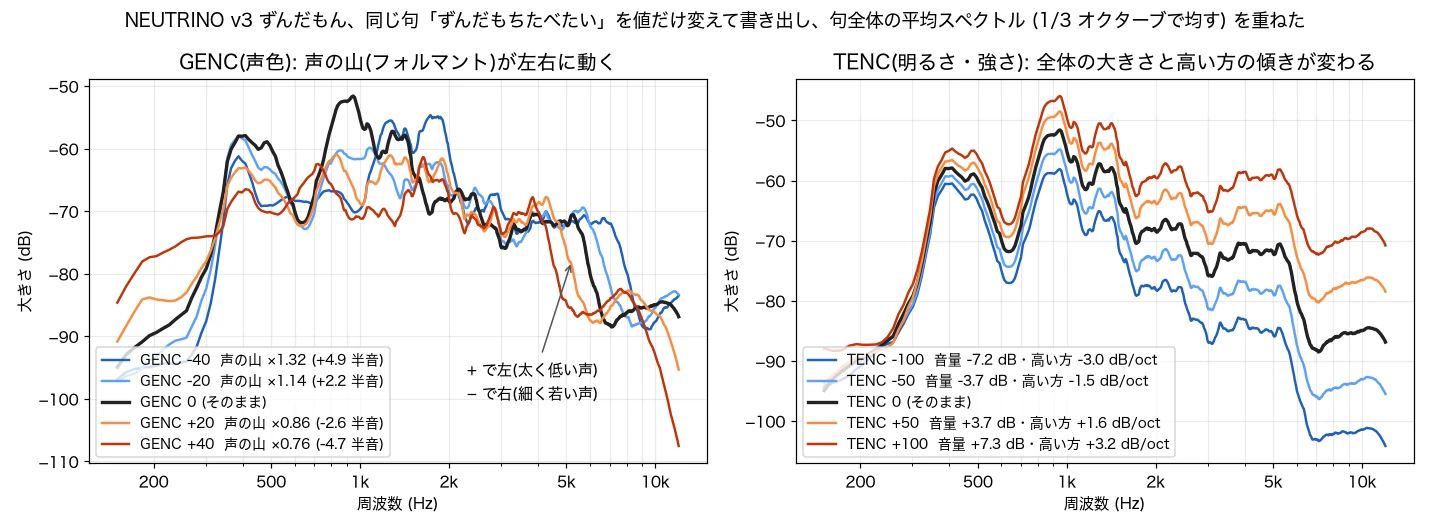
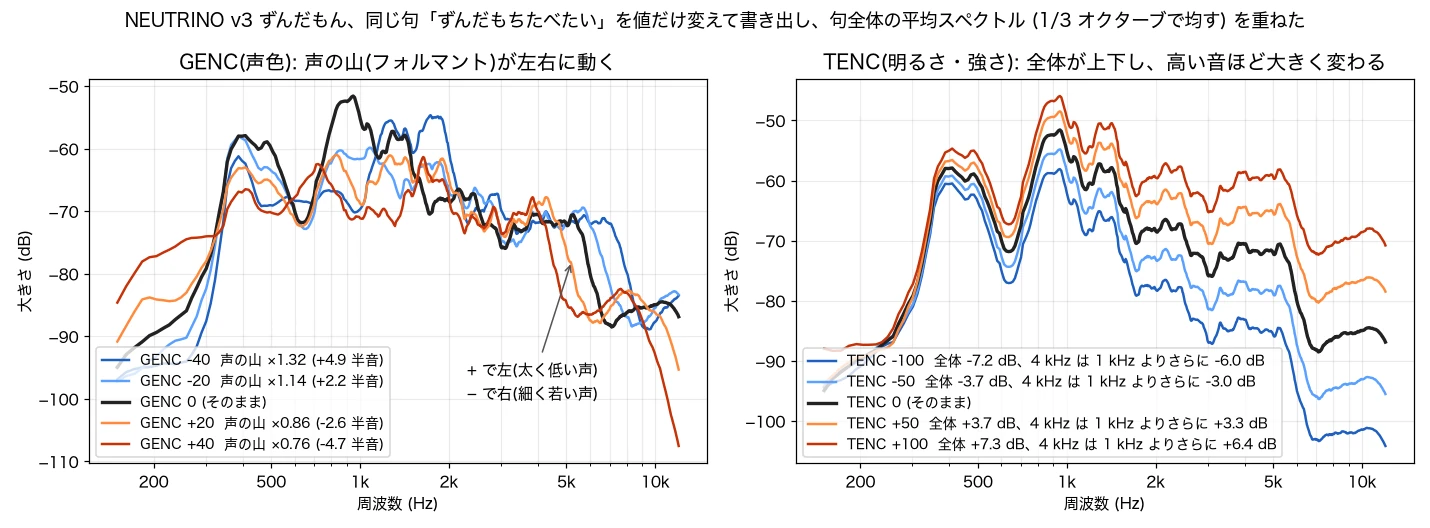
mel 編集の TENC を「4 kHz は 1 kHz よりさらに何 dB」で書く
- dB/oct をやめ、全体の音量と、4 kHz が 1 kHz よりさらに何 dB 変わるかの 2 列にする
  (測った傾き × 2 オクターブ)。図の凡例も同じ書き方に描き直す
- GENC と TENC の表を分け、それぞれの下に意味を 1〜2 行

Changed region(s): [[0.5538, 0.6364, 0.8923, 0.8788], [0.5846, 0.0909, 0.9846, 0.1515]]

diff --git a/README.md b/README.md
@@ -120,22 +120,33 @@ zip の中身(展開したフォルダが、そのまま OpenUtau 本体です):
 
 **こうすると → こうなる**(同じ句を値だけ変えて書き出し、実測)
 
-| カーブ | 値 | こうなる |
+**`GENC`(声色)**
+
+| 値 | 声の山(フォルマント) | 聞こえ方 |
 |---|---|---|
-| `GENC` | −40 | 細く若い声。声の山 ×1.32(+4.9 半音) |
-| `GENC` | −20 | 声の山 ×1.14(+2.2 半音) |
-| `GENC` | +20 | 声の山 ×0.86(−2.6 半音) |
-| `GENC` | +40 | 太く低い声。声の山 ×0.76(−4.7 半音)。200 Hz 付近にも音が出る(+15 dB) |
-| `TENC` | −100 | 小さく暗く。音量 −7.2 dB、高い方 −3.0 dB/oct |
-| `TENC` | −50 | 音量 −3.7 dB、高い方 −1.5 dB/oct |
-| `TENC` | +50 | 音量 +3.7 dB、高い方 +1.6 dB/oct |
-| `TENC` | +100 | 大きく明るく。音量 +7.3 dB、高い方 +3.2 dB/oct |
+| −40 | ×1.32(+4.9 半音) | 細く若い声 |
+| −20 | ×1.14(+2.2 半音) | |
+| +20 | ×0.86(−2.6 半音) | |
+| +40 | ×0.76(−4.7 半音) | 太く低い声。200 Hz 付近にも音が出る(+15 dB) |
 
-- `GENC` は声の高さを変えずに、声の山(フォルマント)だけを動かす。+ で下げて太く低い声、− で上げて細く若い声。向きは本家 OpenUtau の決まりどおり(100 で 12 半音下)。
-- `TENC` は全体の音量と、1 kHz を軸にした高い方の傾きが一緒に動く。
-- 効きが強いので、`GENC` は ±10〜20、`TENC` は ±20〜50 から。
+- 声の高さは変えずに、声の山だけを動かす。+ で下げて太く低い声、− で上げて細く若い声。
+- 向きは本家 OpenUtau の決まりどおり(100 で 12 半音下)。
 
-**図**: 上の表の実測(句全体の平均スペクトル)。左は `GENC` で、声の山が − で右(高く)・+ で左(低く)へ動く。右は `TENC` で、線全体が上下し、右肩の傾きが変わる。
+**`TENC`(明るさ・強さ)**
+
+| 値 | 全体の音量 | 4 kHz は 1 kHz よりさらに | 聞こえ方 |
+|---|---|---|---|
+| −100 | −7.2 dB | −6.0 dB | 小さく暗く |
+| −50 | −3.7 dB | −3.0 dB | |
+| +50 | +3.7 dB | +3.3 dB | |
+| +100 | +7.3 dB | +6.4 dB | 大きく明るく |
+
+- 全体の音量と一緒に、高い音ほど大きく(− なら小さく)変わる。1 kHz を軸に、1 オクターブ上がるごとに同じだけ差が付く(4 kHz は 1 kHz の 2 オクターブ上)。
+- 1 kHz より低い音は、逆の向きに変わる。
+
+**目安**: 効きが強いので、`GENC` は ±10〜20、`TENC` は ±20〜50 から。
+
+**図**: 上の表の実測(句全体の平均スペクトル)。左は `GENC` で、声の山が − で右(高く)・+ で左(低く)へ動く。右は `TENC` で、線全体が上下し、右(高い音)ほど開きが大きい。
 
 <img src="docs/mel-compare.webp" alt="GENC・TENC の値違いの平均スペクトル">
 

diff --git a/packaging/features/mel.md b/packaging/features/mel.md
@@ -10,22 +10,33 @@
 
 **こうすると → こうなる**(同じ句を値だけ変えて書き出し、実測)
 
-| カーブ | 値 | こうなる |
+**`GENC`(声色)**
+
+| 値 | 声の山(フォルマント) | 聞こえ方 |
 |---|---|---|
-| `GENC` | −40 | 細く若い声。声の山 ×1.32(+4.9 半音) |
-| `GENC` | −20 | 声の山 ×1.14(+2.2 半音) |
-| `GENC` | +20 | 声の山 ×0.86(−2.6 半音) |
-| `GENC` | +40 | 太く低い声。声の山 ×0.76(−4.7 半音)。200 Hz 付近にも音が出る(+15 dB) |
-| `TENC` | −100 | 小さく暗く。音量 −7.2 dB、高い方 −3.0 dB/oct |
-| `TENC` | −50 | 音量 −3.7 dB、高い方 −1.5 dB/oct |
-| `TENC` | +50 | 音量 +3.7 dB、高い方 +1.6 dB/oct |
-| `TENC` | +100 | 大きく明るく。音量 +7.3 dB、高い方 +3.2 dB/oct |
+| −40 | ×1.32(+4.9 半音) | 細く若い声 |
+| −20 | ×1.14(+2.2 半音) | |
+| +20 | ×0.86(−2.6 半音) | |
+| +40 | ×0.76(−4.7 半音) | 太く低い声。200 Hz 付近にも音が出る(+15 dB) |
 
-- `GENC` は声の高さを変えずに、声の山(フォルマント)だけを動かす。+ で下げて太く低い声、− で上げて細く若い声。向きは本家 OpenUtau の決まりどおり(100 で 12 半音下)。
-- `TENC` は全体の音量と、1 kHz を軸にした高い方の傾きが一緒に動く。
-- 効きが強いので、`GENC` は ±10〜20、`TENC` は ±20〜50 から。
+- 声の高さは変えずに、声の山だけを動かす。+ で下げて太く低い声、− で上げて細く若い声。
+- 向きは本家 OpenUtau の決まりどおり(100 で 12 半音下)。
 
-**図**: 上の表の実測(句全体の平均スペクトル)。左は `GENC` で、声の山が − で右(高く)・+ で左(低く)へ動く。右は `TENC` で、線全体が上下し、右肩の傾きが変わる。
+**`TENC`(明るさ・強さ)**
+
+| 値 | 全体の音量 | 4 kHz は 1 kHz よりさらに | 聞こえ方 |
+|---|---|---|---|
+| −100 | −7.2 dB | −6.0 dB | 小さく暗く |
+| −50 | −3.7 dB | −3.0 dB | |
+| +50 | +3.7 dB | +3.3 dB | |
+| +100 | +7.3 dB | +6.4 dB | 大きく明るく |
+
+- 全体の音量と一緒に、高い音ほど大きく(− なら小さく)変わる。1 kHz を軸に、1 オクターブ上がるごとに同じだけ差が付く(4 kHz は 1 kHz の 2 オクターブ上)。
+- 1 kHz より低い音は、逆の向きに変わる。
+
+**目安**: 効きが強いので、`GENC` は ±10〜20、`TENC` は ±20〜50 から。
+
+**図**: 上の表の実測(句全体の平均スペクトル)。左は `GENC` で、声の山が − で右(高く)・+ で左(低く)へ動く。右は `TENC` で、線全体が上下し、右(高い音)ほど開きが大きい。
 
 <img src="docs/mel-compare.webp" alt="GENC・TENC の値違いの平均スペクトル">
 
